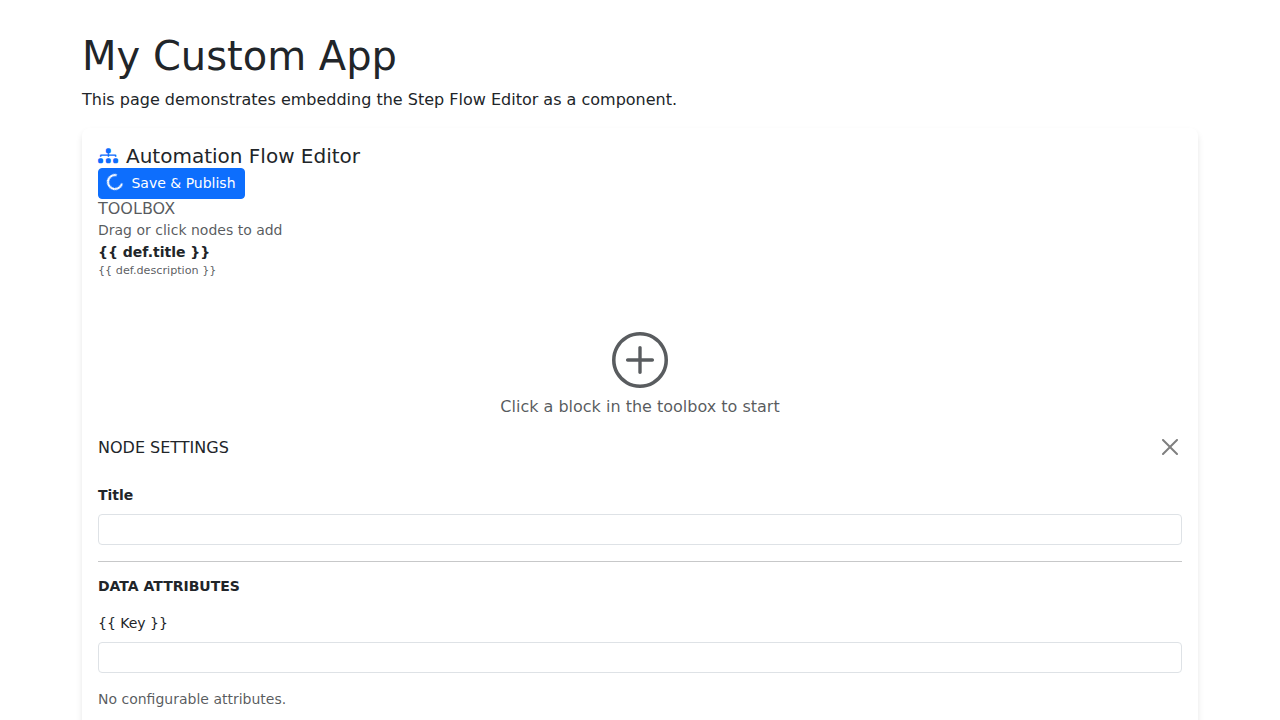
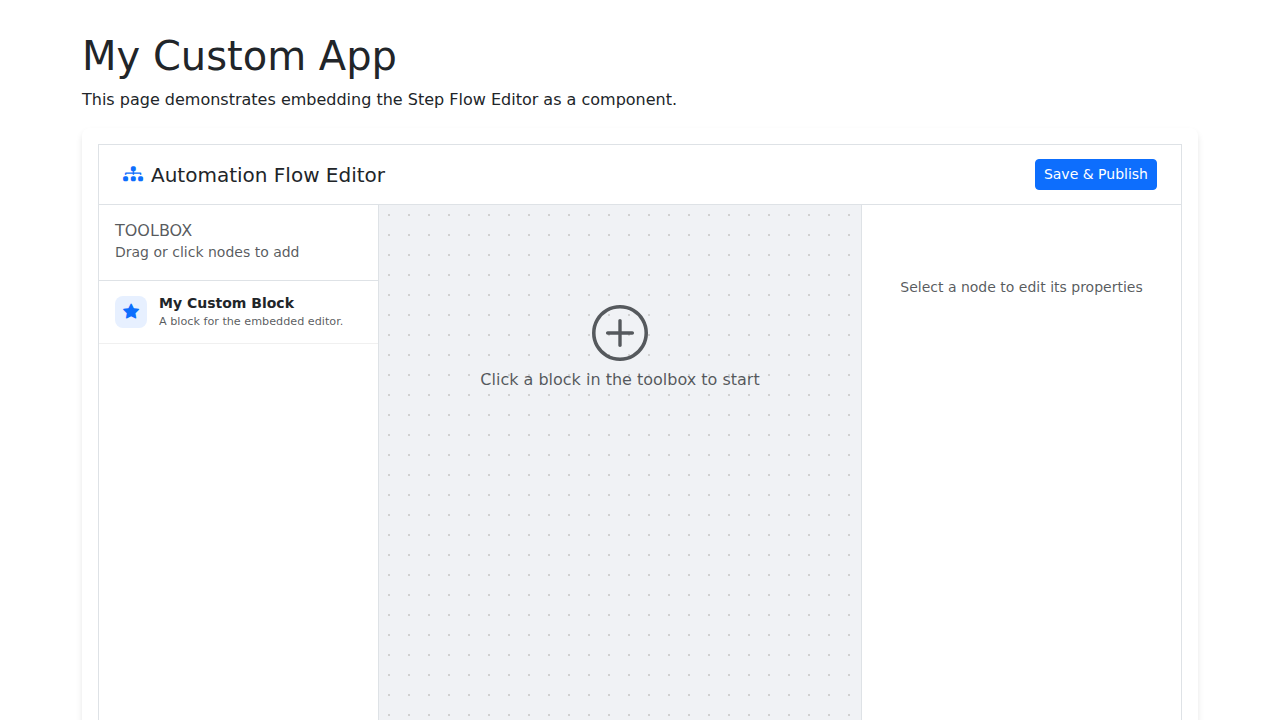
feat: finalize embeddable UI component with modular assets and optimized rendering
- Split `editor_component.html` into separate `.css` and `.js` files for better maintainability.
- Switched to `text/template` for CSS and JS pre-rendering to prevent auto-escaping issues.
- Optimized Vue.js templates using `<template>` tags for cleaner DOM.
- Fixed Vue.js template variable injection by using a global `editorData` object.
- Reorganized examples into `examples/standalone` and `examples/embedded`.
- Corrected module name to `github.com/dracory/stepeditor`.
- Updated `README.md` with descriptions and screenshots for both example types.
- Verified correct rendering and functionality in both standalone and embedded modes.

diff --git a/internal/assets/editor_component.js b/internal/assets/editor_component.js
@@ -1,4 +1,3 @@
-(function() {
     const { createApp, ref, computed, onMounted } = Vue;
     const mountId = 'app-[[.ID]]';
     const endpoint = '[[.Endpoint]]';
@@ -30,30 +29,34 @@
                 </div>
 
                 <!-- Branches -->
-                <div v-if="hasBranches" class="branches-container">
-                    <div v-for="branchName in branchNames" :key="branchName" class="branch">
-                        <div class="connector-v"></div>
-                        <div class="branch-label">{{ branchName }}</div>
-                        <div class="connector-v"></div>
+                        <template v-if="hasBranches">
+                            <div class="branches-container">
+                                <template v-for="branchName in branchNames" :key="branchName">
+                                    <div class="branch">
+                                        <div class="connector-v"></div>
+                                        <div class="branch-label">{{ branchName }}</div>
+                                        <div class="connector-v"></div>
 
-                        <template v-for="(b, idx) in (block.branches[branchName] || [])" :key="b.id">
-                            <flow-node
-                                :block="b"
-                                :path="[...path, 'branches', branchName, idx]"
-                                :selected-path="selectedPath"
-                                :definitions="definitions"
-                                @select="(p) => $emit('select', p)"
-                                @remove="(p) => $emit('remove', p)"
-                                @add-to-branch="(p, def) => $emit('add-to-branch', p, def)"
-                            ></flow-node>
-                            <div v-if="idx < block.branches[branchName].length - 1" class="connector-v"></div>
-                        </template>
+                                        <template v-for="(b, idx) in (block.branches[branchName] || [])" :key="b.id">
+                                            <flow-node
+                                                :block="b"
+                                                :path="[...path, 'branches', branchName, idx]"
+                                                :selected-path="selectedPath"
+                                                :definitions="definitions"
+                                                @select="(p) => $emit('select', p)"
+                                                @remove="(p) => $emit('remove', p)"
+                                                @add-to-branch="(p, def) => $emit('add-to-branch', p, def)"
+                                            ></flow-node>
+                                            <div v-if="idx < block.branches[branchName].length - 1" class="connector-v"></div>
+                                        </template>
 
-                        <button @click.stop="addBlockToThisBranch(branchName)" class="btn btn-outline-primary btn-xs mt-2" style="font-size: 0.6rem; padding: 2px 5px;">
-                            <i class="bi bi-plus"></i>
-                        </button>
+                                        <button @click.stop="addBlockToThisBranch(branchName)" class="btn btn-outline-primary btn-xs mt-2" style="font-size: 0.6rem; padding: 2px 5px;">
+                                            <i class="bi bi-plus"></i>
+                                        </button>
+                                    </div>
+                                </template>
                     </div>
-                </div>
+                        </template>
             </div>
         `,
         computed: {
@@ -166,12 +169,12 @@
             };
 
             const loadConfig = async () => {
-                // Pre-load from template if available
-                const initialFlow = [[.FlowJSON]];
-                const initialDefs = [[.Definitions]];
-
-                if (initialFlow) flow.value = initialFlow;
-                if (initialDefs) definitions.value = initialDefs;
+                // Pre-load from global if available (injected via HTML template)
+                const globalData = window["editorData_[[.ID]]"];
+                if (globalData) {
+                    if (globalData.flow) flow.value = globalData.flow;
+                    if (globalData.definitions) definitions.value = globalData.definitions;
+                }
 
                 // Then refresh from API to ensure we have latest (optional)
                 try {
@@ -201,4 +204,3 @@
             };
         }
     }).mount('#' + mountId);
-})();

diff --git a/internal/assets/editor_component.html b/internal/assets/editor_component.html
@@ -23,17 +23,19 @@
                     <h6 class="mb-0 text-muted">TOOLBOX</h6>
                     <small class="text-muted">Drag or click nodes to add</small>
                 </div>
-                <div v-for="def in definitions" :key="def.type" @click="addBlock(def)" class="block-library-item">
-                    <div class="d-flex align-items-center">
-                        <div class="block-icon">
-                            <i :class="def.icon"></i>
-                        </div>
-                        <div>
-                            <div class="fw-bold small">{{ def.title }}</div>
-                            <div class="text-muted" style="font-size: 0.7rem;">{{ def.description }}</div>
+                <template v-for="def in definitions" :key="def.type">
+                    <div @click="addBlock(def)" class="block-library-item">
+                        <div class="d-flex align-items-center">
+                            <div class="block-icon">
+                                <i :class="def.icon"></i>
+                            </div>
+                            <div>
+                                <div class="fw-bold small">{{ def.title }}</div>
+                                <div class="text-muted" style="font-size: 0.7rem;">{{ def.description }}</div>
+                            </div>
                         </div>
                     </div>
-                </div>
+                </template>
             </div>
 
             <!-- Main Canvas -->
@@ -61,7 +63,7 @@
 
             <!-- Settings Panel -->
             <div class="settings-panel">
-                <div v-if="selectedBlock">
+                <template v-if="selectedBlock">
                     <div class="d-flex justify-content-between align-items-center mb-4">
                         <h6 class="mb-0">NODE SETTINGS</h6>
                         <button @click="selectedBlockPath = null" class="btn-close btn-sm"></button>
@@ -74,15 +76,17 @@
 
                     <hr>
                     <h6 class="small fw-bold mb-3">DATA ATTRIBUTES</h6>
-                    <div v-for="(val, key) in selectedBlock.data" :key="key" class="mb-3">
-                        <label class="form-label small text-capitalize">{{ key }}</label>
-                        <input v-model="selectedBlock.data[key]" class="form-control form-control-sm">
-                    </div>
+                    <template v-for="(val, key) in selectedBlock.data" :key="key">
+                        <div class="mb-3">
+                            <label class="form-label small text-capitalize">{{ key }}</label>
+                            <input v-model="selectedBlock.data[key]" class="form-control form-control-sm">
+                        </div>
+                    </template>
 
                     <div v-if="Object.keys(selectedBlock.data).length === 0" class="text-muted small italic">
                         No configurable attributes.
                     </div>
-                </div>
+                </template>
                 <div v-else class="text-center text-muted mt-5">
                     <p class="small">Select a node to edit its properties</p>
                 </div>
@@ -92,6 +96,12 @@
 
     <script src="https://unpkg.com/vue@3/dist/vue.global.js"></script>
     <script>
-        [[.JS]]
+        (function() {
+            window["editorData_[[.ID]]"] = {
+                flow: JSON.parse('[[.FlowJSON]]'),
+                definitions: JSON.parse('[[.Definitions]]')
+            };
+            [[.JS]]
+        })();
     </script>
 </div>

diff --git a/editor.go b/editor.go
@@ -10,12 +10,13 @@ import (
 	"net/http"
 	"strings"
 	"sync"
+	texttemplate "text/template"
 )
 
 //go:embed internal/assets/*
 var assets embed.FS
 
-var templates = template.Must(template.New("").Delims("[[", "]]").ParseFS(assets, "internal/assets/*.html"))
+var templates = texttemplate.Must(texttemplate.New("").Delims("[[", "]]").ParseFS(assets, "internal/assets/*.html"))
 
 // Block represents a single step in the flow.
 type Block struct {
@@ -99,6 +100,17 @@ func (e *Editor) ServeHTTP(w http.ResponseWriter, r *http.Request) {
 func (e *Editor) serveIndex(w http.ResponseWriter, r *http.Request) {
 	data := e.getTemplateData()
 
+	// Use text/template for JS and CSS to avoid auto-escaping
+	tJS := texttemplate.Must(texttemplate.New("js").Delims("[[", "]]").Parse(string(data.JS)))
+	var jsBuf bytes.Buffer
+	tJS.Execute(&jsBuf, data)
+	data.JS = template.HTML(jsBuf.String())
+
+	tCSS := texttemplate.Must(texttemplate.New("css").Delims("[[", "]]").Parse(string(data.CSS)))
+	var cssBuf bytes.Buffer
+	tCSS.Execute(&cssBuf, data)
+	data.CSS = template.HTML(cssBuf.String())
+
 	w.Header().Set("Content-Type", "text/html")
 	if err := templates.ExecuteTemplate(w, "index.html", data); err != nil {
 		http.Error(w, err.Error(), http.StatusInternalServerError)
@@ -108,6 +120,17 @@ func (e *Editor) serveIndex(w http.ResponseWriter, r *http.Request) {
 // ToHTML returns the HTML for the editor component.
 func (e *Editor) ToHTML() string {
 	data := e.getTemplateData()
+
+	// Use text/template for JS and CSS to avoid auto-escaping
+	tJS := texttemplate.Must(texttemplate.New("js").Delims("[[", "]]").Parse(string(data.JS)))
+	var jsBuf bytes.Buffer
+	tJS.Execute(&jsBuf, data)
+	data.JS = template.HTML(jsBuf.String())
+
+	tCSS := texttemplate.Must(texttemplate.New("css").Delims("[[", "]]").Parse(string(data.CSS)))
+	var cssBuf bytes.Buffer
+	tCSS.Execute(&cssBuf, data)
+	data.CSS = template.HTML(cssBuf.String())
 
 	var buf bytes.Buffer
 	if err := templates.ExecuteTemplate(&buf, "editor_component.html", data); err != nil {
@@ -141,11 +164,15 @@ func (e *Editor) getTemplateData() templateData {
 	css, _ := assets.ReadFile("internal/assets/editor_component.css")
 	js, _ := assets.ReadFile("internal/assets/editor_component.js")
 
+	// Escape single quotes in JSON for embedding in JS
+	flowJSONStr := strings.ReplaceAll(string(flowJSON), "'", "\\'")
+	defsJSONStr := strings.ReplaceAll(string(defsJSON), "'", "\\'")
+
 	return templateData{
 		ID:          e.id,
 		Endpoint:    e.config.Endpoint,
-		FlowJSON:    string(flowJSON),
-		Definitions: string(defsJSON),
+		FlowJSON:    flowJSONStr,
+		Definitions: defsJSONStr,
 		CSS:         template.HTML(css),
 		JS:          template.HTML(js),
 	}
